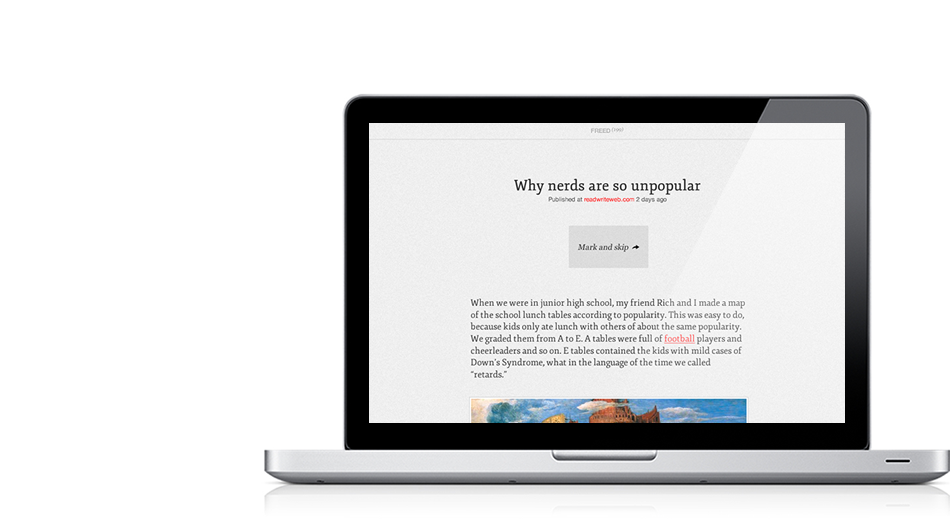
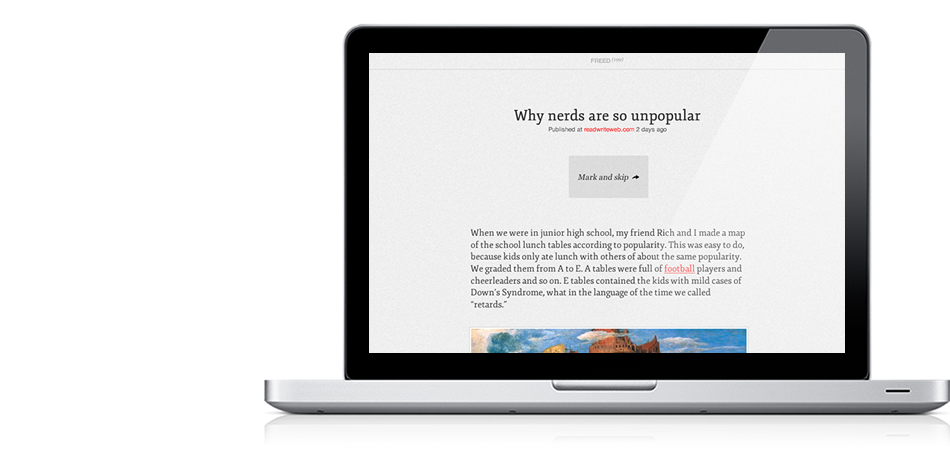
Fixed home

Changed region(s): [[0.2747, 0.4575, 1.0, 0.9455], [0.3358, 0.0305, 0.9158, 0.305], [0.5189, 0.3355, 0.7326, 0.3965]]

diff --git a/public/stylesheets/style_h.css b/public/stylesheets/style_h.css
@@ -1,4 +1,4 @@
-html,body,div,span,applet,object,iframe,h1,h2,h3,h4,h5,h6,p,blockquote,pre,a,abbr,acronym,address,big,cite,code,del,dfn,em,img,ins,kbd,q,s,samp,small,strike,strong,sub,sup,tt,var,b,u,i,center,dl,dt,dd,ol,ul,li,fieldset,form,label,legend,table,caption,tbody,tfoot,thead,tr,th,td,article,aside,canvas,details,embed,figure,figcaption,footer,header,hgroup,menu,nav,output,ruby,section,summary,time,mark,audio,video{margin:0;padding:0;border:0;font-size:100%;font:inherit;vertical-align:baseline}body{line-height:1}ol,ul{list-style:none}table{border-collapse:collapse;border-spacing:0}caption,th,td{text-align:left;font-weight:normal;vertical-align:middle}q,blockquote{quotes:none}q:before,q:after,blockquote:before,blockquote:after{content:"";content:none}a img{border:none}article,aside,details,figcaption,figure,footer,header,hgroup,menu,nav,section,summary{display:block}@font-face{font-family:'FjordOne';src:url("../fonts/FjordOne-Regular-webfont.eot");src:url("../fonts/FjordOne-Regular-webfont.eot?#iefix") format("embedded-opentype"),url("../fonts/FjordOne-Regular-webfont.woff") format("woff"),url("../fonts/FjordOne-Regular-webfont.ttf") format("truetype"),url("../fonts/FjordOne-Regular-webfont.svg#FjordOne") format("svg");font-weight:normal;font-style:normal}@font-face{font-family:'ProximaNovaRegular';src:url("../fonts/proximanova-regular-webfont.eot");src:url("../fonts/proximanova-regular-webfont.eot?#iefix") format("embedded-opentype"),url("../fonts/proximanova-regular-webfont.woff") format("woff"),url("../fonts/proximanova-regular-webfont.ttf") format("truetype"),url("../fonts/proximanova-regular-webfont.svg#ProximaNovaRegular") format("svg");font-weight:normal;font-style:normal}body{background:url("/images/bkg_w.png")}p{font-family:"ProximaNovaRegular", sans-serif;font-size:15px;color:#666}a{color:#FF3333;text-decoration:none}.wrap{width:950px;margin:0 auto 0 auto;text-align:left}.top{text-align:center;padding:40px 0px 36px 0px;background-color:#FFFFFF}.top .wrap{background:url("/images/home_computer.png");height:424px}.top .logo{font-family:'FjordOne';color:#333;font-size:19px;font-weight:normal;margin:0}.top .logo span{color:#FF3333;font-family:"ProximaNovaRegular", sans-serif;font-size:11px;margin:0 0 0 6px}.text{width:305px;top:152px;position:relative}.text h1{font-family:'FjordOne';font-weight:normal;color:#333;font-size:29px;margin:0 0 20px 0;width:296px}.text h2{font-family:"ProximaNovaRegular", sans-serif;font-weight:normal;color:#666;font-size:15px;margin:0 0 45px 0;width:280px;line-height:19px}.text a.bigButton{display:block;width:214px;height:18px;padding:15px 28px 14px 28px;background:url("/images/home_button.png");color:transparent}.text a.bigButton:hover{background-position:0 -47px}.bottom{background:url("/images/bkg_w.png");border-top:1px solid #CCC;text-align:center;padding:53px 0 50px 0}.bottom .wrap ul li{vertical-align:top;display:inline-block;width:280px;margin:0 44px 0 0}.bottom .wrap ul li.first{margin:0 58px 0 0}.bottom .wrap ul li.last{margin:0}.bottom .wrap ul li h3{font-family:'FjordOne';font-weight:normal;color:#333;font-size:19px;margin:0 0 20px 0;line-height:21px}.bottom .wrap ul li p{font-family:"ProximaNovaRegular", sans-serif;font-weight:normal;color:#666;font-size:15px;line-height:21px}.bottom .wrap .footer{border-top:1px solid #CCC;margin:50px 0 0 0;padding:45px 37px 0 0}.bottom .wrap .footer p{margin:0;text-align:right;font-size:13px}@media only screen
+html,body,div,span,applet,object,iframe,h1,h2,h3,h4,h5,h6,p,blockquote,pre,a,abbr,acronym,address,big,cite,code,del,dfn,em,img,ins,kbd,q,s,samp,small,strike,strong,sub,sup,tt,var,b,u,i,center,dl,dt,dd,ol,ul,li,fieldset,form,label,legend,table,caption,tbody,tfoot,thead,tr,th,td,article,aside,canvas,details,embed,figure,figcaption,footer,header,hgroup,menu,nav,output,ruby,section,summary,time,mark,audio,video{margin:0;padding:0;border:0;font-size:100%;font:inherit;vertical-align:baseline}body{line-height:1}ol,ul{list-style:none}table{border-collapse:collapse;border-spacing:0}caption,th,td{text-align:left;font-weight:normal;vertical-align:middle}q,blockquote{quotes:none}q:before,q:after,blockquote:before,blockquote:after{content:"";content:none}a img{border:none}article,aside,details,figcaption,figure,footer,header,hgroup,menu,nav,section,summary{display:block}@font-face{font-family:'FjordOne';src:url("../fonts/FjordOne-Regular-webfont.eot");src:url("../fonts/FjordOne-Regular-webfont.eot?#iefix") format("embedded-opentype"),url("../fonts/FjordOne-Regular-webfont.woff") format("woff"),url("../fonts/FjordOne-Regular-webfont.ttf") format("truetype"),url("../fonts/FjordOne-Regular-webfont.svg#FjordOne") format("svg");font-weight:normal;font-style:normal}@font-face{font-family:'ProximaNovaRegular';src:url("../fonts/proximanova-regular-webfont.eot");src:url("../fonts/proximanova-regular-webfont.eot?#iefix") format("embedded-opentype"),url("../fonts/proximanova-regular-webfont.woff") format("woff"),url("../fonts/proximanova-regular-webfont.ttf") format("truetype"),url("../fonts/proximanova-regular-webfont.svg#ProximaNovaRegular") format("svg");font-weight:normal;font-style:normal}body{background:url("/images/bkg_w.png")}p{font-family:"ProximaNovaRegular", sans-serif;font-size:15px;color:#666}a{color:#FF3333;text-decoration:none}.wrap{width:950px;margin:0 auto 0 auto;text-align:left}.top{text-align:center;padding:40px 0px 36px 0px;background-color:#FFFFFF}.top .wrap{background:url("/images/home_computer.png");height:424px}.top .logo{font-family:'FjordOne';color:#333;font-size:19px;font-weight:normal;margin:0}.top .logo span{color:#FF3333;font-family:"ProximaNovaRegular", sans-serif;font-size:11px;margin:0 0 0 6px}.text{width:305px;top:90px;position:relative}.text h1{font-family:'FjordOne';font-weight:normal;color:#333;font-size:29px;margin:0 0 20px 0;width:296px}.text h2{font-family:"ProximaNovaRegular", sans-serif;font-weight:normal;color:#666;font-size:15px;margin:0 0 45px 0;width:280px;line-height:19px}.text a.bigButton{display:block;width:214px;height:18px;padding:15px 28px 14px 28px;background:url("/images/home_button.png");color:transparent}.text a.bigButton:hover{background-position:0 -47px}.bottom{background:url("/images/bkg_w.png");border-top:1px solid #CCC;text-align:center;padding:53px 0 50px 0}.bottom .wrap ul li{vertical-align:top;display:inline-block;width:280px;margin:0 44px 0 0}.bottom .wrap ul li.first{margin:0 58px 0 0}.bottom .wrap ul li.last{margin:0}.bottom .wrap ul li h3{font-family:'FjordOne';font-weight:normal;color:#333;font-size:19px;margin:0 0 20px 0;line-height:21px}.bottom .wrap ul li p{font-family:"ProximaNovaRegular", sans-serif;font-weight:normal;color:#666;font-size:15px;line-height:21px}.bottom .wrap .footer{border-top:1px solid #CCC;margin:50px 0 0 0;padding:45px 37px 0 0}.bottom .wrap .footer p{margin:0;text-align:right;font-size:13px}@media only screen
 and (min-device-width : 768px)
 and (max-device-width : 1024px)
 and (orientation : portrait){.wrap{width:auto;padding:20px 30px}.top .wrap .text{top:122px}.bottom .wrap ul li{width:215px;margin:0 20px 0 0}.bottom .wrap ul li.first{margin:0 30px 0 0}.bottom .wrap .footer{margin:40px 0 0 0;padding:40px 30px 0 0}}

diff --git a/public/scss/style_h.scss b/public/scss/style_h.scss
@@ -50,7 +50,7 @@ a {
 
 .text {
   width: 305px;
-  top: 152px;
+  top: 90px;
   position:relative;
 
   h1 {
